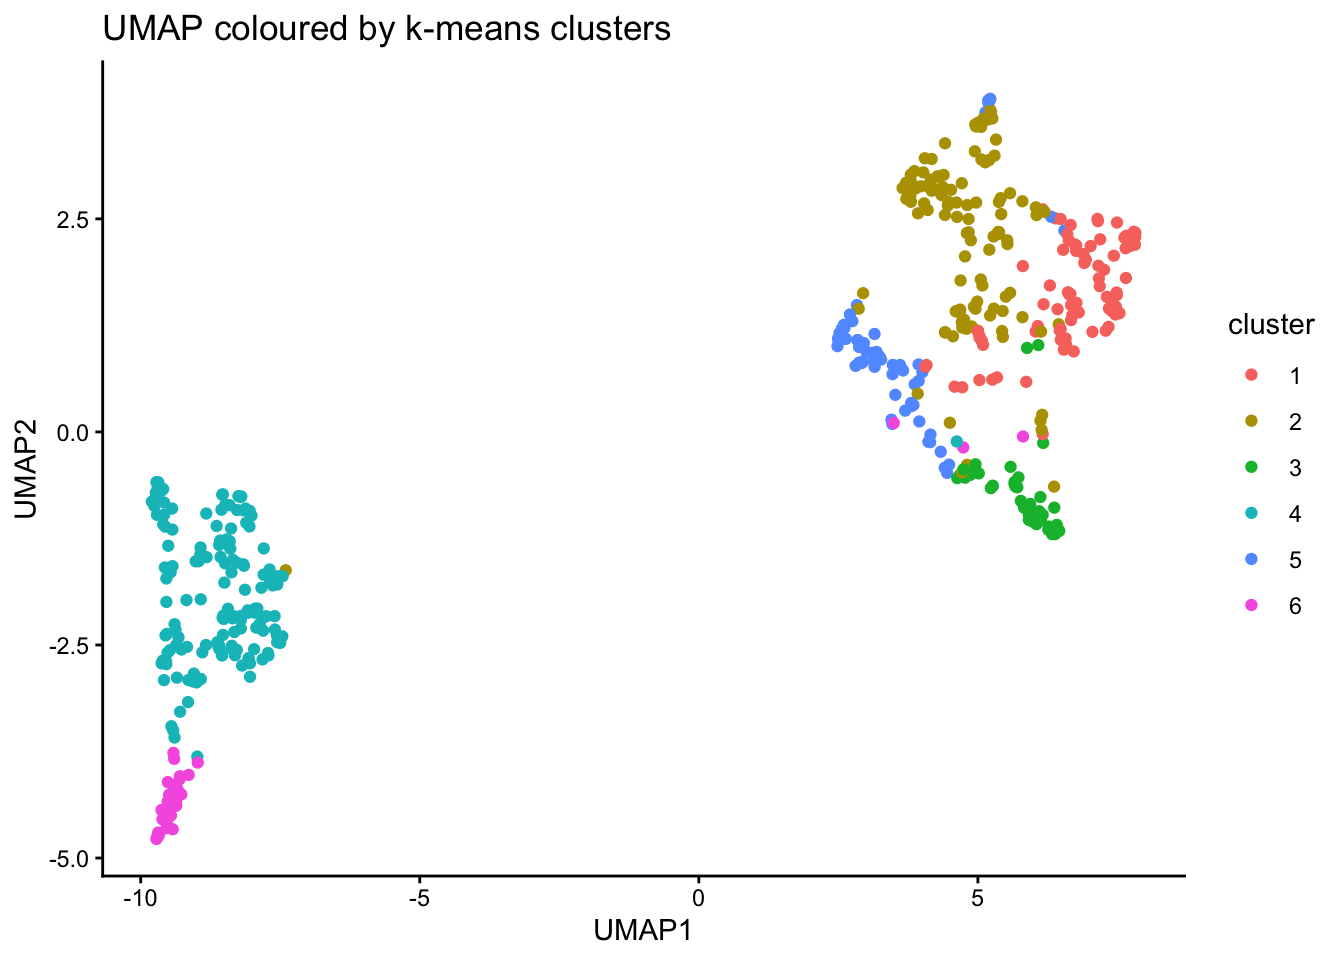
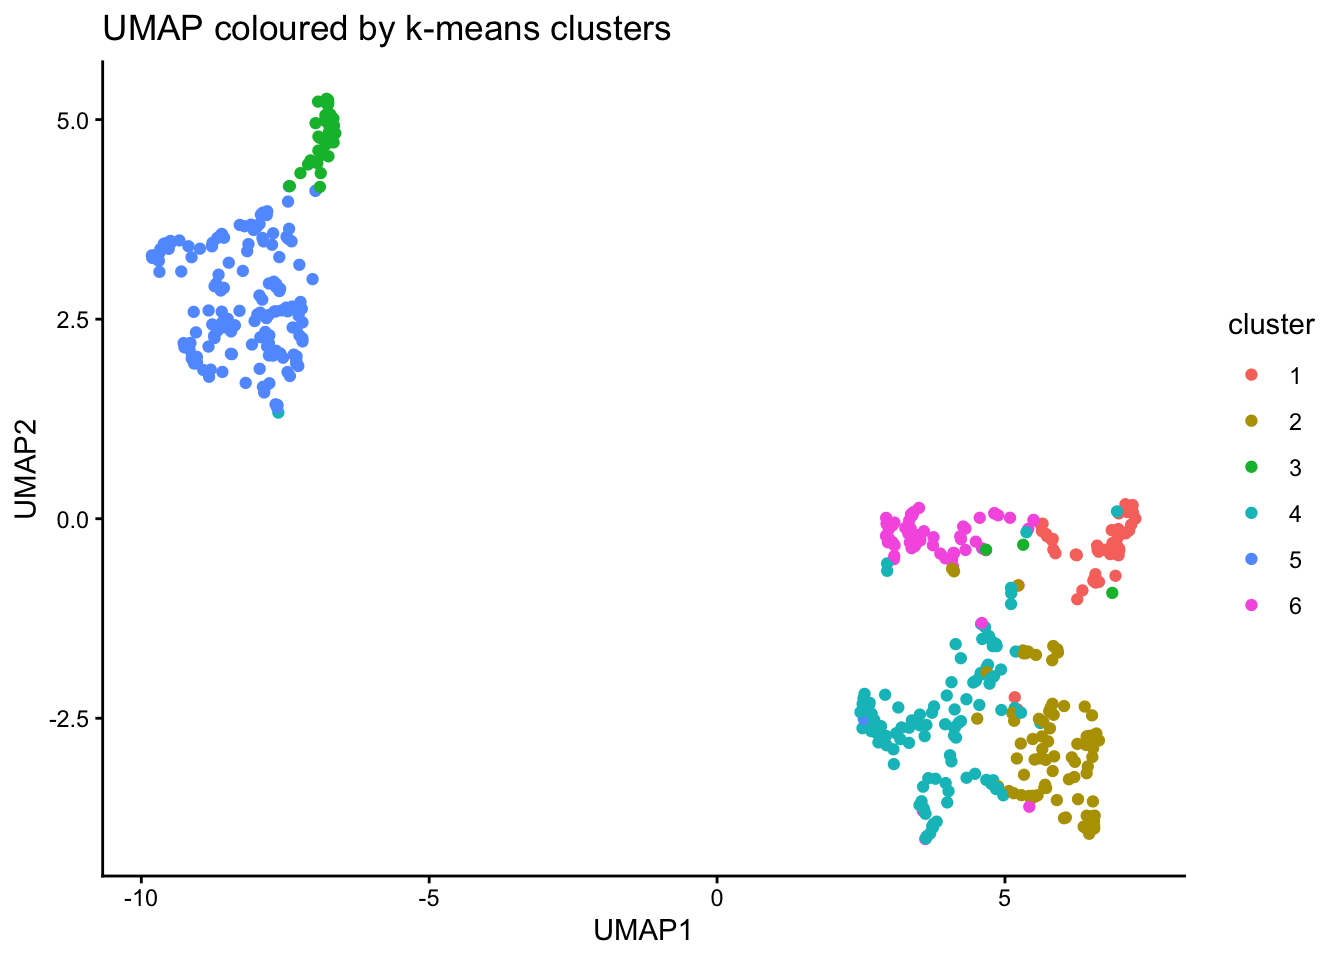
Build site.

diff --git a/docs/imc_02.html b/docs/imc_02.html
@@ -391,7 +391,7 @@ class="glyphicon glyphicon-ok text-success" aria-hidden="true"></span>
 <div class="tab-content">
 <div id="summary" class="tab-pane fade in active">
 <p>
-<strong>Last updated:</strong> 2025-11-26
+<strong>Last updated:</strong> 2025-11-28
 </p>
 <p>
 <strong>Checks:</strong> <span
@@ -523,15 +523,15 @@ project makes it easier to run your code on other machines.</p>
 <div class="panel panel-default">
 <div class="panel-heading">
 <p class="panel-title">
-<a data-toggle="collapse" data-parent="#workflowr-checks" href="#strongRepositoryversionstrongahrefhttpsgithubcomghar18212025cytoconnectspatialworkshoptree799934a4412fce23dc5429b3e506d5c01b00dc56targetblank799934aa">
+<a data-toggle="collapse" data-parent="#workflowr-checks" href="#strongRepositoryversionstrongahrefhttpsgithubcomghar18212025cytoconnectspatialworkshoptreebf7d388af7e4410ae718f4ad66e819b63599cc6atargetblankbf7d388a">
 <span class="glyphicon glyphicon-ok text-success"
 aria-hidden="true"></span> <strong>Repository version:</strong>
-<a href="https://github.com/ghar1821/2025_cytoconnect_spatial_workshop/tree/799934a4412fce23dc5429b3e506d5c01b00dc56" target="_blank">799934a</a>
+<a href="https://github.com/ghar1821/2025_cytoconnect_spatial_workshop/tree/bf7d388af7e4410ae718f4ad66e819b63599cc6a" target="_blank">bf7d388</a>
 </a>
 </p>
 </div>
 <div
[2 lines of base64/hex data omitted]
 class="panel-collapse collapse">
 <div class="panel-body">
 <p>
@@ -541,7 +541,7 @@ reproducibility.
 </p>
 <p>
 The results in this page were generated with repository version
-<a href="https://github.com/ghar1821/2025_cytoconnect_spatial_workshop/tree/799934a4412fce23dc5429b3e506d5c01b00dc56" target="_blank">799934a</a>.
+<a href="https://github.com/ghar1821/2025_cytoconnect_spatial_workshop/tree/bf7d388af7e4410ae718f4ad66e819b63599cc6a" target="_blank">bf7d388</a>.
 See the <em>Past versions</em> tab to see a history of the changes made
 to the R Markdown and HTML files.
 </p>
@@ -560,6 +560,13 @@ Ignored files:
     Ignored:    data/.DS_Store
     Ignored:    data/imc/
     Ignored:    data/visium/
+
+Untracked files:
+    Untracked:  analysis/imc_03.Rmd
+    Untracked:  code/import_clustering.groovy
+
+Unstaged changes:
+    Modified:   analysis/imc_01.Rmd
 
 </code></pre>
 <p>
@@ -608,6 +615,40 @@ Message
 Rmd
 </td>
 <td>
+<a href="https://github.com/ghar1821/2025_cytoconnect_spatial_workshop/blob/bf7d388af7e4410ae718f4ad66e819b63599cc6a/analysis/imc_02.Rmd" target="_blank">bf7d388</a>
+</td>
+<td>
+Givanna Putri
+</td>
+<td>
+2025-11-28
+</td>
+<td>
+wflow_publish("analysis/imc_02.Rmd")
+</td>
+</tr>
+<tr>
+<td>
+html
+</td>
+<td>
+<a href="https://rawcdn.githack.com/ghar1821/2025_cytoconnect_spatial_workshop/bbc530991de31cb4dda858b296dd698bc34c5b71/docs/imc_02.html" target="_blank">bbc5309</a>
+</td>
+<td>
+Givanna Putri
+</td>
+<td>
+2025-11-26
+</td>
+<td>
+Build site.
+</td>
+</tr>
+<tr>
+<td>
+Rmd
+</td>
+<td>
 <a href="https://github.com/ghar1821/2025_cytoconnect_spatial_workshop/blob/799934a4412fce23dc5429b3e506d5c01b00dc56/analysis/imc_02.Rmd" target="_blank">799934a</a>
 </td>
 <td>
@@ -631,7 +672,7 @@ html
 Givanna Putri
 </td>
 <td>
-2025-11-19
+2025-11-18
 </td>
 <td>
 Build site.
@@ -648,7 +689,7 @@ Rmd
 Givanna Putri
 </td>
 <td>
-2025-11-19
+2025-11-18
 </td>
 <td>
 wflow_publish(c("analysis/imc_02.Rmd", "analysis//index.Rmd"))
@@ -665,7 +706,7 @@ html
 Givanna Putri
 </td>
 <td>
-2025-11-19
+2025-11-18
 </td>
 <td>
 Build site.
@@ -682,7 +723,7 @@ Rmd
 Givanna Putri
 </td>
 <td>
-2025-11-19
+2025-11-18
 </td>
 <td>
 wflow_publish(c("analysis/imc_02.Rmd", "analysis/visium_01.Rmd",
@@ -731,12 +772,12 @@ segmented using Qupath and ImageJ in the previous analysis step.</p>
 )
 head(data)</code></pre>
 <pre><code>             Image                            Object.ID Object.type Name
-1 all_channels.tif 49557086-eb05-45cd-a628-5d378bbc6a92  Annotation   NA
-2 all_channels.tif 9f891fa0-7c59-41ab-a347-20ac13a6f78a  Annotation   NA
-3 all_channels.tif 5f0b61a9-3de5-4d35-9deb-5e3edd67c5d7  Annotation   NA
-4 all_channels.tif 750f6c24-170f-422a-afa9-e58511c81f15  Annotation   NA
-5 all_channels.tif 90b3cccd-8d7d-46ce-8b52-d0983dd82146  Annotation   NA
-6 all_channels.tif 7798a9a2-23f4-4302-867c-30b69d266db4  Annotation   NA
+1 all_channels.tif 0bbc5176-e837-492b-8541-ab8013f2e055  Annotation   NA
+2 all_channels.tif 8d698dcd-8705-41db-8b8e-b2a9cd1b32b2  Annotation   NA
+3 all_channels.tif 795efc24-72d0-4032-a91a-ecd01388b726  Annotation   NA
+4 all_channels.tif 18b7d58e-73d5-484a-bcac-008358f1880e  Annotation   NA
+5 all_channels.tif 77a46f0f-e7c3-4f33-acb8-869cfa3f2b70  Annotation   NA
+6 all_channels.tif c0f3cc5b-6a5b-4323-a55f-997e2f837c4e  Annotation   NA
   Classification              Parent     ROI Centroid.X.px Centroid.Y.px
 1          Other Root object (Image) Polygon         2.821         2.393
 2          Other Root object (Image) Polygon        14.360         3.449
@@ -993,7 +1034,7 @@ Date
 Givanna Putri
 </td>
 <td>
-2025-11-19
+2025-11-18
 </td>
 </tr>
 </tbody>
@@ -1057,7 +1098,7 @@ Date
 Givanna Putri
 </td>
 <td>
-2025-11-19
+2025-11-18
 </td>
 </tr>
 <tr>
@@ -1068,7 +1109,7 @@ Givanna Putri
 Givanna Putri
 </td>
 <td>
-2025-11-19
+2025-11-18
 </td>
 </tr>
 </tbody>
@@ -1133,7 +1174,7 @@ Date
 Givanna Putri
 </td>
 <td>
-2025-11-19
+2025-11-18
 </td>
 </tr>
 <tr>
@@ -1144,7 +1185,7 @@ Givanna Putri
 Givanna Putri
 </td>
 <td>
-2025-11-19
+2025-11-18
 </td>
 </tr>
 </tbody>
@@ -1226,7 +1267,7 @@ Date
 Givanna Putri
 </td>
 <td>
-2025-11-19
+2025-11-18
 </td>
 </tr>
 <tr>
@@ -1237,7 +1278,7 @@ Givanna Putri
 Givanna Putri
 </td>
 <td>
-2025-11-19
+2025-11-18
 </td>
 </tr>
 </tbody>
@@ -1261,7 +1302,7 @@ for(marker in markers_cols) {
 }
 
 print(paste(&quot;Before filtering:&quot;, nrow(normed_scaled_exp), &quot;. After filtering:&quot;, nrow(normed_exp_filtered)))</code></pre>
-<pre><code>[1] &quot;Before filtering: 559 . After filtering: 506&quot;</code></pre>
+<pre><code>[1] &quot;Before filtering: 560 . After filtering: 507&quot;</code></pre>
 <p>Before proceeding, we will also scale the data to have mean of 0 and
 standard deviation of 1 for each marker.</p>
 <pre class="r"><code>normed_exp_filtered_scaled &lt;- normed_exp_filtered %&gt;%
@@ -1313,7 +1354,7 @@ Date
 Givanna Putri
 </td>
 <td>
-2025-11-19
+2025-11-18
 </td>
 </tr>
 <tr>
@@ -1324,7 +1365,7 @@ Givanna Putri
 Givanna Putri
 </td>
 <td>
-2025-11-19
+2025-11-18
 </td>
 </tr>
 </tbody>
@@ -1388,7 +1429,7 @@ Date
 Givanna Putri
 </td>
 <td>
-2025-11-19
+2025-11-18
 </td>
 </tr>
 </tbody>
@@ -1436,7 +1477,7 @@ Date
 Givanna Putri
 </td>
 <td>
-2025-11-19
+2025-11-18
 </td>
 </tr>
 </tbody>
@@ -1483,7 +1524,7 @@ Date
 Givanna Putri
 </td>
 <td>
-2025-11-19
+2025-11-18
 </td>
 </tr>
 </tbody>
@@ -1533,7 +1574,7 @@ Date
 Givanna Putri
 </td>
 <td>
-2025-11-19
+2025-11-18
 </td>
 </tr>
 </tbody>
@@ -1589,7 +1630,7 @@ Date
 Givanna Putri
 </td>
 <td>
-2025-11-19
+2025-11-18
 </td>
 </tr>
 </tbody>
@@ -1641,7 +1682,7 @@ Date
 Givanna Putri
 </td>
 <td>
-2025-11-19
+2025-11-18
 </td>
 </tr>
 </tbody>
@@ -1701,7 +1742,7 @@ Date
 Givanna Putri
 </td>
 <td>
-2025-11-19
+2025-11-18
 </td>
 </tr>
 </tbody>
@@ -1764,7 +1805,7 @@ Date
 Givanna Putri
 </td>
 <td>
-2025-11-19
+2025-11-18
 </td>
 </tr>
 <tr>
@@ -1775,13 +1816,24 @@ Givanna Putri
 Givanna Putri
 </td>
 <td>
-2025-11-19
+2025-11-18
 </td>
 </tr>
 </tbody>
 </table>
 </div>
 </div>
+</div>
+<div id="save-the-processed-data" class="section level1">
+<h1>Save the processed data</h1>
+<pre class="r"><code>write.csv(
+  normed_exp_filtered_scaled %&gt;% 
+    select(Object.ID, cluster) %&gt;%
+    mutate(cluster = paste0(&quot;Cluster_&quot;, cluster)),
+  file.path(here(), &quot;data&quot;, &quot;imc&quot;, &quot;extdata&quot;, &quot;all_channels.csv&quot;),
+  row.names = FALSE,
+  quote=FALSE
+)</code></pre>
 </div>
 <div id="session-info" class="section level1">
 <h1>Session Info</h1>
@@ -1797,7 +1849,7 @@ LAPACK: /Library/Frameworks/R.framework/Versions/4.5-arm64/Resources/lib/libRlap
 locale:
 [1] en_US.UTF-8/en_US.UTF-8/en_US.UTF-8/C/en_US.UTF-8/en_US.UTF-8
 
-time zone: Australia/Melbourne
+time zone: Australia/Perth
 tzcode source: internal
 
 attached base packages:
@@ -1846,7 +1898,7 @@ LAPACK: /Library/Frameworks/R.framework/Versions/4.5-arm64/Resources/lib/libRlap
 locale:
 [1] en_US.UTF-8/en_US.UTF-8/en_US.UTF-8/C/en_US.UTF-8/en_US.UTF-8
 
-time zone: Australia/Melbourne
+time zone: Australia/Perth
 tzcode source: internal
 
 attached base packages:
